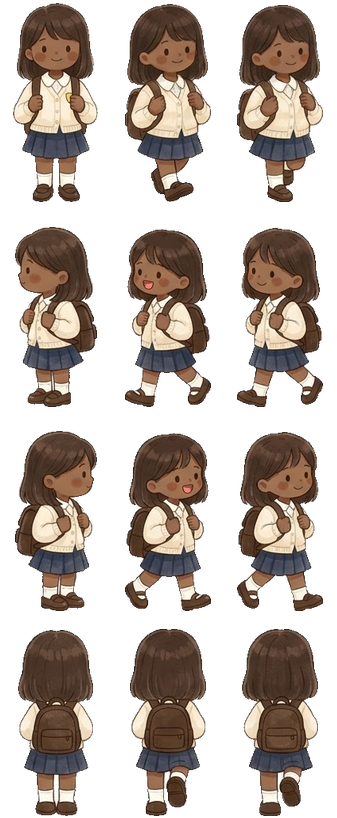
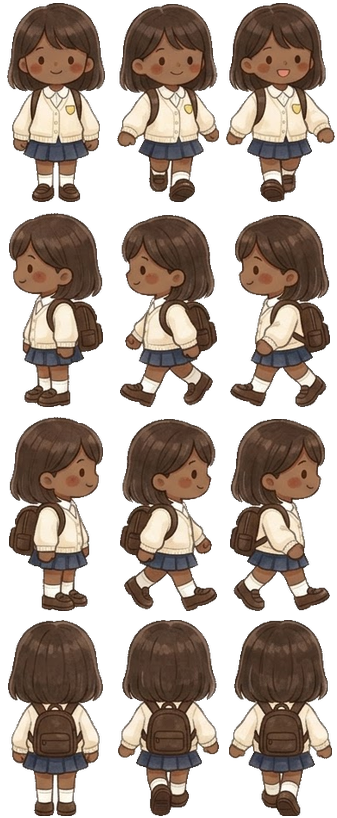
Sua: meeting 5 choice C now says what I actually do (say I cannot think of the word in Korean and ask the class what it is called), all 5 languages; walking sprite = the approved A version (short hair, dark brown skin)

diff --git a/index.html b/index.html
@@ -119,14 +119,14 @@ body,button{word-break:keep-all;overflow-wrap:break-word}
 <div id="fader"></div>
 <script>
 // same address, newest version: if the page this phone has kept is older than the one online, fetch the new one and reopen
-const BUILD='1107094948';
+const BUILD='1107095103';
 try{fetch(location.pathname,{cache:'no-store'}).then(r=>r.text()).then(t=>{const m=t.match(/const BUILD='(\d+)'/);if(m&&m[1]!==BUILD&&sessionStorage.getItem('upd')!==m[1]){sessionStorage.setItem('upd',m[1]);fetch(location.pathname,{cache:'reload'}).then(()=>location.reload())}}).catch(()=>{})}catch(e){}
 </script>
-<script src="i18n.js?v=1107094948"></script>
-<script src="i18n_prologue_v2.js?v=1107094948"></script>
-<script src="day2/i18n_engine.js?v=1107094948"></script>
-<script src="day2/data.js?v=1107094948"></script>
-<script src="day3/data.js?v=1107094948"></script>
+<script src="i18n.js?v=1107095103"></script>
+<script src="i18n_prologue_v2.js?v=1107095103"></script>
+<script src="day2/i18n_engine.js?v=1107095103"></script>
+<script src="day2/data.js?v=1107095103"></script>
+<script src="day3/data.js?v=1107095103"></script>
 <script>
 // ---------- data ----------
 const MW=1672,MH=941,KID=180;
@@ -549,34 +549,34 @@ function pickHero(){const m=document.getElementById('modal'),c=document.getEleme
  c.innerHTML=`<h2>${tr('전학생 반장되기')}</h2><p>${tr('한국말이 아직 서툰 전학생,<br>반장 선거에 나가다.')}</p><p style="margin-top:14px">${tr('누구로 할까요?')}</p>${(()=>{const s=loadSave();return s&&s.day>=2&&s.mode===UI+'-'+LANG?`<p><button class="big" id="cont">${tr('{n}일차부터 이어 하기').replace('{n}',s.day)}</button></p>`:''})()}<div class="pick heroes"><button data-h="hero_f"><img src="faces/hero_f_smile.jpg" alt="여자 주인공">${heroName(1)}</button><button data-h="hero_m"><img src="faces/hero_m_smile.jpg" alt="남자 주인공">${heroName(0)}</button></div>`;
  m.classList.add('on');{const cb=document.getElementById('cont');if(cb)cb.onclick=()=>{const s=loadSave();HERO=s.hero;Object.assign(HEART,s.heart||{});(s.found||[]).forEach(k=>FOUND.add(k));HEART_D1={...HEART};chime();(typeof contGame==='function'?contGame(s):startDay(Math.min(s.day,Object.keys(window.D3||{}).length?3:2)))}}c.querySelectorAll('.pick button').forEach(b=>b.onclick=()=>{HERO=b.dataset.h;m.classList.remove('on');chime();bgm('day');load('home_am');say([['nar','','이사 온 다음 날 아침. 아직 풀지 못한 상자들이 쌓여 있다.'],['think','sad','(오늘부터 새 학교야. 여기 말도 아직 서툰데…….)'],['think','smile','({m}한테 인사하고 학교 가야지.)']],morning)})}
 </script>
-<script src="day2/engine.js?v=1107094948"></script>
-<script src="day2/ep_minho.js?v=1107094948"></script>
-<script src="day2/meet.js?v=1107094948"></script>
-<script src="day2/ep_sua.js?v=1107094948"></script>
-<script src="day2/ep_hangyeol.js?v=1107094948"></script>
-<script src="day2/ep_siwoo.js?v=1107094948"></script>
-<script src="day2/ep_haram.js?v=1107094948"></script>
-<script src="day2/ep_jiho.js?v=1107094948"></script>
-<script src="day2/ep_hyeeun.js?v=1107094948"></script>
-<script src="day2/ep_haneul.js?v=1107094948"></script>
-<script src="day2/ep_junho.js?v=1107094948"></script>
-<script src="day2/ep_yuna.js?v=1107094948"></script>
-<script src="day2/ep_yena.js?v=1107094948"></script>
-<script src="day2/ep_haeun.js?v=1107094948"></script>
-<script src="day2/ep_youngmin.js?v=1107094948"></script>
-<script src="day2/ep_seah.js?v=1107094948"></script>
-<script src="day2/ep_jihoon.js?v=1107094948"></script>
-<script src="words_ja_ru.js?v=1107094948"></script>
-<script src="day2/mybag.js?v=1107094948"></script>
-<script src="day2/wordpics.js?v=1107094948"></script>
-<script src="day2/spots.js?v=1107094948"></script>
-<script src="day2/textfit.js?v=1107094948"></script>
-<script src="day2/tester.js?v=1107094948"></script>
-<script src="day2/ux.js?v=1107094948"></script>
-<script src="day2/tapword.js?v=1107094948"></script>
-<script src="day2/review.js?v=1107094948"></script>
-<script src="day2/ep_ending.js?v=1107094948"></script>
-<script src="day2/ending.js?v=1107094948"></script>
+<script src="day2/engine.js?v=1107095103"></script>
+<script src="day2/ep_minho.js?v=1107095103"></script>
+<script src="day2/meet.js?v=1107095103"></script>
+<script src="day2/ep_sua.js?v=1107095103"></script>
+<script src="day2/ep_hangyeol.js?v=1107095103"></script>
+<script src="day2/ep_siwoo.js?v=1107095103"></script>
+<script src="day2/ep_haram.js?v=1107095103"></script>
+<script src="day2/ep_jiho.js?v=1107095103"></script>
+<script src="day2/ep_hyeeun.js?v=1107095103"></script>
+<script src="day2/ep_haneul.js?v=1107095103"></script>
+<script src="day2/ep_junho.js?v=1107095103"></script>
+<script src="day2/ep_yuna.js?v=1107095103"></script>
+<script src="day2/ep_yena.js?v=1107095103"></script>
+<script src="day2/ep_haeun.js?v=1107095103"></script>
+<script src="day2/ep_youngmin.js?v=1107095103"></script>
+<script src="day2/ep_seah.js?v=1107095103"></script>
+<script src="day2/ep_jihoon.js?v=1107095103"></script>
+<script src="words_ja_ru.js?v=1107095103"></script>
+<script src="day2/mybag.js?v=1107095103"></script>
+<script src="day2/wordpics.js?v=1107095103"></script>
+<script src="day2/spots.js?v=1107095103"></script>
+<script src="day2/textfit.js?v=1107095103"></script>
+<script src="day2/tester.js?v=1107095103"></script>
+<script src="day2/ux.js?v=1107095103"></script>
+<script src="day2/tapword.js?v=1107095103"></script>
+<script src="day2/review.js?v=1107095103"></script>
+<script src="day2/ep_ending.js?v=1107095103"></script>
+<script src="day2/ending.js?v=1107095103"></script>
 <script>
 // the goal shows big for a few seconds, then folds into a small pill (tap it to open it again)
 {const g=document.getElementById('goal');let t=null;const big=()=>{g.classList.remove('mini');clearTimeout(t);t=setTimeout(()=>g.classList.add('mini'),4000)};

diff --git a/day2/ep_sua.js b/day2/ep_sua.js
@@ -233,7 +233,7 @@ EP.sua=[
   {k:'B',text:'말 대신 몸으로 보여 준다.',pts:{sua:2},r:[
    ['me','smile','잠깐만요. 보여 줄게요.'],{pic:'sua_05d'},['nar','','나는 질문한 아이에게 다가갔다.'],['me','smile','{@hand} 잡아도 돼?'],['nar','','아이: 「응.」'],['nar','','나는 그 아이 {@hand}을 잡고 내 옆에 나란히 섰다.'],['me','smile','잡히면, 이렇게. 나랑 같이.'],['nar','','아이: 「아! 같은 편!」'],['me','laugh','네! 같은 편!'],
    ['nar','','몇 명이 신이 나서 「같은 편!」 하고 따라 했다. 교실이 웃음으로 시끌시끌해졌다. 이번 웃음은 나를 향한 게 아니었다.']]},
-  {k:'C',text:'솔직하게 말하고 반 친구들에게 묻는다.',pts:{sua:2},r:[
+  {k:'C',text:'그 낱말이 한국말로 생각 안 난다고 말하고, 반 친구들에게 한국말로 뭐라고 하는지 묻는다.',pts:{sua:2},r:[
    {pic:'sua_05e'},['me','sad','그 말이 한국말로 생각이 안 나요.'],['me','smile','{HL}로는 바로 생각나는데요. 잡히면 잡은 사람이랑 한 팀이 돼요. 이걸 한국말로 뭐라고 해요?'],['nar','','아이들: 「같은 편!」'],['me','laugh','맞아요! 같은 편이 돼요.'],
    ['nar','','아이: 「{HL}로는 뭔데? 다시 해 봐!」'],['nar','','아이들이 {HL}를 서툴게 따라 했다. 나는 한 번 더 천천히 말해 줬다. 두 번째엔 꽤 비슷했다. 나도 웃음이 났다.']]},
   {k:'D',text:'그 부분은 건너뛰고 「아무튼 재밌어요!」 하고 끝낸다.',pts:{sua:0},r:[
